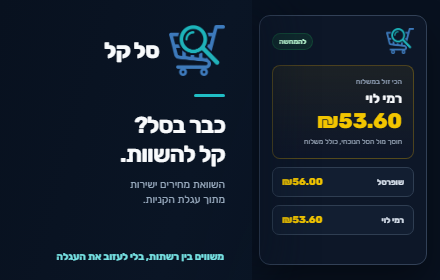
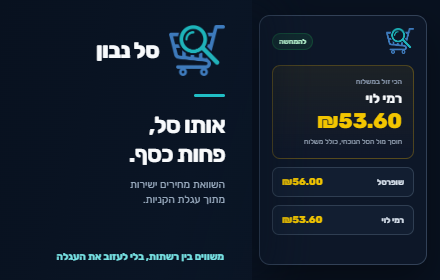
Rebrand extension to Sal Navon for version 1.1.1

diff --git a/extension/popup.js b/extension/popup.js
@@ -1,5 +1,5 @@
 /**
- * Sal Kal — popup.js
+ * Sal Navon — popup.js
  *
  * Queries the active tab to determine whether the extension is active
  * (i.e. the current page is a supported supermarket cart page).
@@ -185,7 +185,7 @@ async function init() {
         siteLabel: getPageLabel(url),
         statusDescription: browserPage
           ? "זה דף של הדפדפן, לא עגלת קניות. פתח אחת מהרשתות הנתמכות מהרשימה למטה."
-          : "סל קל פועל כרגע רק בעגלות של הרשתות הנתמכות. אפשר לפתוח אחת מהרשימה למטה.",
+          : "סל נבון פועל כרגע רק בעגלות של הרשתות הנתמכות. אפשר לפתוח אחת מהרשימה למטה.",
       });
       return;
     }
@@ -229,19 +229,19 @@ async function init() {
       primary: { type: "retry", label: "נסה שוב" },
       secondary: activeTabId ? { type: "reload", label: "רענן עמוד", tabId: activeTabId } : null,
     });
-    console.error("[SalKal popup]", err);
+    console.error("[SalNavon popup]", err);
   }
 }
 
 document.getElementById("primary-action")?.addEventListener("click", () => {
   runAction(primaryAction).catch((err) => {
-    console.error("[SalKal popup action]", err);
+    console.error("[SalNavon popup action]", err);
   });
 });
 
 document.getElementById("secondary-action")?.addEventListener("click", () => {
   runAction(secondaryAction).catch((err) => {
-    console.error("[SalKal popup action]", err);
+    console.error("[SalNavon popup action]", err);
   });
 });
 
@@ -250,7 +250,7 @@ document.getElementById("store-list")?.addEventListener("click", (event) => {
   const button = target?.closest(".store-button");
   if (!button?.dataset.storeUrl) return;
   runAction({ type: "open-url", url: button.dataset.storeUrl }).catch((err) => {
-    console.error("[SalKal popup store]", err);
+    console.error("[SalNavon popup store]", err);
   });
 });
 

diff --git a/store-assets/promo-440x280.html b/store-assets/promo-440x280.html
@@ -3,7 +3,7 @@
 <head>
   <meta charset="utf-8">
   <meta name="viewport" content="width=440, initial-scale=1">
-  <title>סל קל</title>
+  <title>סל נבון</title>
   <link href="https://fonts.googleapis.com/css2?family=Rubik:wght@400;600;700;800&display=swap" rel="stylesheet">
   <style>
     * { box-sizing: border-box; }
@@ -104,15 +104,15 @@
 </head>
 <body>
   <section class="comparison">
-    <div class="comparison-head"><img src="../extension/icons/sal_kal_v1-cropped.png" alt=""><span class="updated">להמחשה</span></div>
+    <div class="comparison-head"><img src="../extension/icons/sal-navon.png" alt="סל נבון"><span class="updated">להמחשה</span></div>
     <div class="result"><small>הכי זול במשלוח</small><strong>רמי לוי</strong><div class="price">₪53.60</div><div class="saving">חוסך מול הסל הנוכחי, כולל משלוח</div></div>
     <div class="chain"><span>שופרסל</span><b>₪56.00</b></div>
     <div class="chain"><span>רמי לוי</span><b>₪53.60</b></div>
   </section>
   <main class="brand">
-    <div class="brand-mark"><img src="../extension/icons/sal_kal_v1-cropped.png" alt=""><div class="name">סל קל</div></div>
+    <div class="brand-mark"><img src="../extension/icons/sal-navon.png" alt=""><div class="name">סל נבון</div></div>
     <div class="rule"></div>
-    <h1>כבר בסל?<br>קל להשוות.</h1>
+    <h1>אותו סל,<br>פחות כסף.</h1>
     <p>השוואת מחירים ישירות<br>מתוך עגלת הקניות.</p>
     <div class="cta">משווים בין רשתות, בלי לעזוב את העגלה</div>
   </main>

diff --git a/extension/content.js b/extension/content.js
@@ -542,7 +542,7 @@ const HEBREW_CHAIN_NAMES = {
 };
 
 function getLogoMarkup() {
-  return `<img class="cs-logo" src="${chrome.runtime.getURL("icons/sal_kal_v1-cropped.png")}" alt="סל קל">`;
+  return `<img class="cs-logo" src="${chrome.runtime.getURL("icons/sal-navon.png")}" alt="סל נבון">`;
 }
 
 function toDisplayChainName(name) {
@@ -1380,12 +1380,12 @@ async function fetchComparison(chainCode, barcodes, quantities) {
       (response) => {
         clearTimeout(timeout);
         if (chrome.runtime.lastError) {
-          console.error("[SalKal] Background message failed:", chrome.runtime.lastError.message);
+          console.error("[SalNavon] Background message failed:", chrome.runtime.lastError.message);
           reject(new Error(chrome.runtime.lastError.message));
           return;
         }
         if (!response?.ok) {
-          console.error("[SalKal] Comparison failed:", response?.error || "Unknown error");
+          console.error("[SalNavon] Comparison failed:", response?.error || "Unknown error");
           reject(new Error(response?.error || "Unknown error from background"));
           return;
         }
@@ -1457,7 +1457,7 @@ async function run() {
     showResultWidget(data);
     setState(State.SHOWN);
   } catch (err) {
-    console.error("[SalKal] Comparison request failed:", err);
+    console.error("[SalNavon] Comparison request failed:", err);
     if (runId !== runVersion || state !== State.LOADING) return;
     showErrorWidget(
       err instanceof Error

diff --git a/extension/popup.html b/extension/popup.html
@@ -3,7 +3,7 @@
 <head>
   <meta charset="UTF-8" />
   <meta name="viewport" content="width=device-width, initial-scale=1.0" />
-  <title>סל קל</title>
+  <title>סל נבון</title>
   <style>
     * { box-sizing: border-box; margin: 0; padding: 0; }
 
@@ -320,10 +320,10 @@
   <body>
   <header>
     <div class="header-brand">
-      <img class="header-logo" src="icons/sal_kal_v1-cropped.png" alt="סל קל" />
+      <img class="header-logo" src="icons/sal-navon.png" alt="סל נבון" />
       <div class="header-copy">
-        <div class="header-title">סל קל</div>
-        <div class="header-subtitle">השוואת סל בעמודי עגלה נתמכים</div>
+        <div class="header-title">סל נבון</div>
+        <div class="header-subtitle">אותו סל, פחות כסף.</div>
       </div>
     </div>
   </header>

diff --git a/extension/background.js b/extension/background.js
@@ -38,7 +38,7 @@ async function compareCart(payload) {
 
       return await response.json();
     } catch (error) {
-      console.error("[SalKal] Comparison request failed:", error);
+      console.error("[SalNavon] Comparison request failed:", error);
       lastError = error;
       const isTimeout = error?.name === "AbortError";
       const isNetworkFailure = /failed to fetch|networkerror|connection/i.test(

diff --git a/PRIVACY.md b/PRIVACY.md
@@ -1,8 +1,8 @@
-# מדיניות הפרטיות של סל קל
+# מדיניות הפרטיות של סל נבון
 
-עודכן לאחרונה: 4 בספטמבר 2026
+עודכן לאחרונה: 14 בספטמבר 2026
 
-סל קל ("התוסף") משווה בין המוצרים בסל הקניות באתר של רשת מזון נתמכת
+סל נבון ("התוסף") משווה בין המוצרים בסל הקניות באתר של רשת מזון נתמכת
 לבין המחירים הזמינים ברשתות מזון אחרות. מדיניות זו מסבירה אילו נתונים
 התוסף מעבד וכיצד נעשה בהם שימוש.
 
@@ -22,22 +22,22 @@
 
 בעת פתיחת חלון התוסף, נעשה שימוש גם בכתובת העמוד בלשונית הנוכחית כדי
 לקבוע אם מדובר באתר של רשת מזון נתמכת. כתובת העמוד אינה נשלחת לשרת של
-סל קל.
+סל נבון.
 
 ## אופן השימוש בנתונים
 
-פרטי סל הקניות נשלחים בחיבור HTTPS מוצפן לשרת ההשוואה של סל קל. המידע
+פרטי סל הקניות נשלחים בחיבור HTTPS מוצפן לשרת ההשוואה של סל נבון. המידע
 משמש אך ורק להתאמת מוצרים, לחישוב השוואת מחירים ואפשרויות אספקה ולהצגת
 תוצאות ההשוואה בתוסף.
 
 תכולת סל הקניות שנשלחת על ידי המשתמש מעובדת לצורך בקשת ההשוואה ואינה
-נשמרת על ידי השרת במסד הנתונים של סל קל. התוסף אינו יוצר חשבונות משתמש,
+נשמרת על ידי השרת במסד הנתונים של סל נבון. התוסף אינו יוצר חשבונות משתמש,
 ואינו משתמש בקובצי Cookie, במזהי פרסום או בכלי ניתוח שימוש.
 
 ## יומני מערכת ומשך שמירה
 
 השרת שומר ביומני היישום מידע מוגבל הכולל את מספר המוצרים שהושוו ואת רשת
-המזון שממנה בוצעה ההשוואה. סל קל אינו מתעד בכוונה את תכולת הסל המלאה או
+המזון שממנה בוצעה ההשוואה. סל נבון אינו מתעד בכוונה את תכולת הסל המלאה או
 את שמות המוצרים ביומני היישום.
 
 שירות האחסון יוצר באופן אוטומטי יומני בקשות תפעוליים, שעשויים לכלול מידע
@@ -46,12 +46,12 @@
 תקלות, ונשמרים למשך עד 30 ימים.
 
 התוסף עשוי לכתוב הודעות שגיאה טכניות במסוף המפתחים המקומי של הדפדפן
-לצורך איתור תקלות. סל קל אינו מתעד בכוונה את תכולת סל הקניות במסוף זה.
-המידע במסוף נשאר במכשיר המשתמש ואינו נאסף בנפרד על ידי סל קל.
+לצורך איתור תקלות. סל נבון אינו מתעד בכוונה את תכולת סל הקניות במסוף זה.
+המידע במסוף נשאר במכשיר המשתמש ואינו נאסף בנפרד על ידי סל נבון.
 
 ## שיתוף מידע וספקי שירות
 
-סל קל אינו מוכר או משכיר מידע על סל הקניות, ואינו משתמש בו לצורכי פרסום,
+סל נבון אינו מוכר או משכיר מידע על סל הקניות, ואינו משתמש בו לצורכי פרסום,
 קבלת החלטות אשראי או יצירת פרופיל משתמש. המידע אינו משותף עם צדדים
 שלישיים, למעט במידה הנדרשת להפעלת שירות ההשוואה או לציות לדין החל.
 
@@ -69,7 +69,7 @@
 
 ## בחירות המשתמש ומחיקת מידע
 
-ניתן להפסיק את כל פעולת התוסף באמצעות השבתתו או הסרתו. מאחר שסל קל אינו
+ניתן להפסיק את כל פעולת התוסף באמצעות השבתתו או הסרתו. מאחר שסל נבון אינו
 יוצר חשבונות משתמש ואינו שומר בקשות השוואה במסד הנתונים שלו, בדרך כלל
 לא קיים רישום שמור של סל קניות המשויך למשתמש ושניתן למסור או למחוק.
 יומני המערכת נמחקים בתום תקופת שמירה של עד 30 ימים.

diff --git a/CHROME_WEB_STORE.md b/CHROME_WEB_STORE.md
@@ -1,8 +1,55 @@
 # Chrome Web Store Submission Notes
 
+## Version 1.1.1 — Sal Navon rebrand
+
+- Upload package: `dist/salnavon-extension-1.1.1.zip`.
+- Small promotional tile: `store-assets/promo-440x280.png` (440 × 280).
+- Screenshot: `store-assets/screenshot-1280x800.png` (1280 × 800). The existing
+  screenshot uses the retained cart-and-magnifier icon and contains no old brand
+  name.
+- Store icon: `extension/icons/icon128.png` (128 × 128).
+- Release summary: renamed to סל נבון / Sal Navon, refreshed the popup tagline
+  and promotional tile, and updated the privacy policy and supporting text.
+
+Upload this package as an update to the existing extension listing to retain
+the extension ID. Publish the updated privacy policy before submitting.
+
+## Store listing copy
+
+### Name
+
+סל נבון
+
+### Short description
+
+משווה את סל הקניות שלך בין רשתות נתמכות ומראה איפה משתלם יותר להזמין.
+
+### Detailed description
+
+סל נבון — אותו סל, פחות כסף.
+
+כבר מילאתם עגלה בסופר אונליין? סל נבון משווה את המוצרים והכמויות בעגלה
+למחירים ברשתות אחרות, ישירות מתוך עמוד הקניות.
+
+• ההשוואה מופיעה אוטומטית בעמודי עגלה נתמכים בשופרסל, רמי לוי וחצי חינם.
+• התאמת מוצרים לפי ברקוד, ללא החלפה אוטומטית במוצרים אחרים.
+• השוואת עלויות משלוח או איסוף עצמי כשנתונים אלה זמינים.
+• הצגת מוצרים חסרים ומגבלות מינימום הזמנה כדי להבין את ההבדלים בין הרשתות.
+
+לאחר ההתקנה, פתחו עגלת קניות באחד האתרים הנתמכים. חלון התוסף מציג אם
+העמוד נתמך ומאפשר לעבור לעגלה או לרענן את העמוד.
+
+ההשוואה מבוססת על נתוני המחירים הזמינים לשירות. הרשת הזולה ביותר משתנה
+לפי המוצרים, זמינות הנתונים ותנאי האספקה. המחיר הסופי ותנאי ההזמנה נקבעים
+באתר הרשת; חיסכון אינו מובטח בכל סל.
+
+סל נבון הוא שירות עצמאי ואינו קשור, ממומן או מופעל על ידי רשתות המזון
+המופיעות בתוסף. שמות הרשתות וסימניהן שייכים לבעליהם ומשמשים לזיהוי
+ולהשוואת מחירים בלבד.
+
 ## Single purpose
 
-Sal Kal compares the products and quantities in a user's cart on supported
+Sal Navon compares the products and quantities in a user's cart on supported
 supermarket websites and displays price and fulfillment comparisons from other
 supported chains.
 
@@ -10,7 +57,7 @@ supported chains.
 
 ### `activeTab`
 
-Used only when the user opens the extension popup so Sal Kal can identify
+Used only when the user opens the extension popup so Sal Navon can identify
 whether the current tab is a supported supermarket page and display the
 appropriate status or navigation action.
 
@@ -23,7 +70,7 @@ supermarket domains.
 
 ### API host permission
 
-Access to the Sal Kal Cloud Run API is required to securely send cart details
+Access to the Sal Navon Cloud Run API is required to securely send cart details
 for comparison and retrieve the resulting price comparison. Requests use
 HTTPS.
 
@@ -53,6 +100,6 @@ https://github.com/elaysason/supermarket-comparison/blob/main/PRIVACY.md
 
 Add this note to the detailed description:
 
-> סל קל הוא שירות עצמאי ואינו קשור, ממומן או מופעל על ידי רשתות המזון
+> סל נבון הוא שירות עצמאי ואינו קשור, ממומן או מופעל על ידי רשתות המזון
 > המופיעות בתוסף. שמות הרשתות וסימניהן שייכים לבעליהם ומשמשים לזיהוי
 > ולהשוואת מחירים בלבד.

diff --git a/README.md b/README.md
@@ -1,6 +1,8 @@
-# Sal Kal / Supermarket Comparison
+# Sal Navon / סל נבון
 
-Sal Kal helps shoppers compare an online grocery cart against supported Israeli
+אותו סל, פחות כסף.
+
+Sal Navon helps shoppers compare an online grocery cart against supported Israeli
 supermarket chains and see where the same barcode-matched cart is cheaper,
 including delivery or pickup fees when data is available.
 
@@ -23,7 +25,7 @@ barcodes and quantities from supported supermarket sites. The API compares the
 cart against configured online stores for competitor chains and returns the
 cheapest available option.
 
-Comparison is barcode-based. Sal Kal does not guess substitutions. Items that do
+Comparison is barcode-based. Sal Navon does not guess substitutions. Items that do
 not exist in the shared matched set are returned as unmatched.
 
 Shipping and pickup costs are included when the chain has configured shipping
